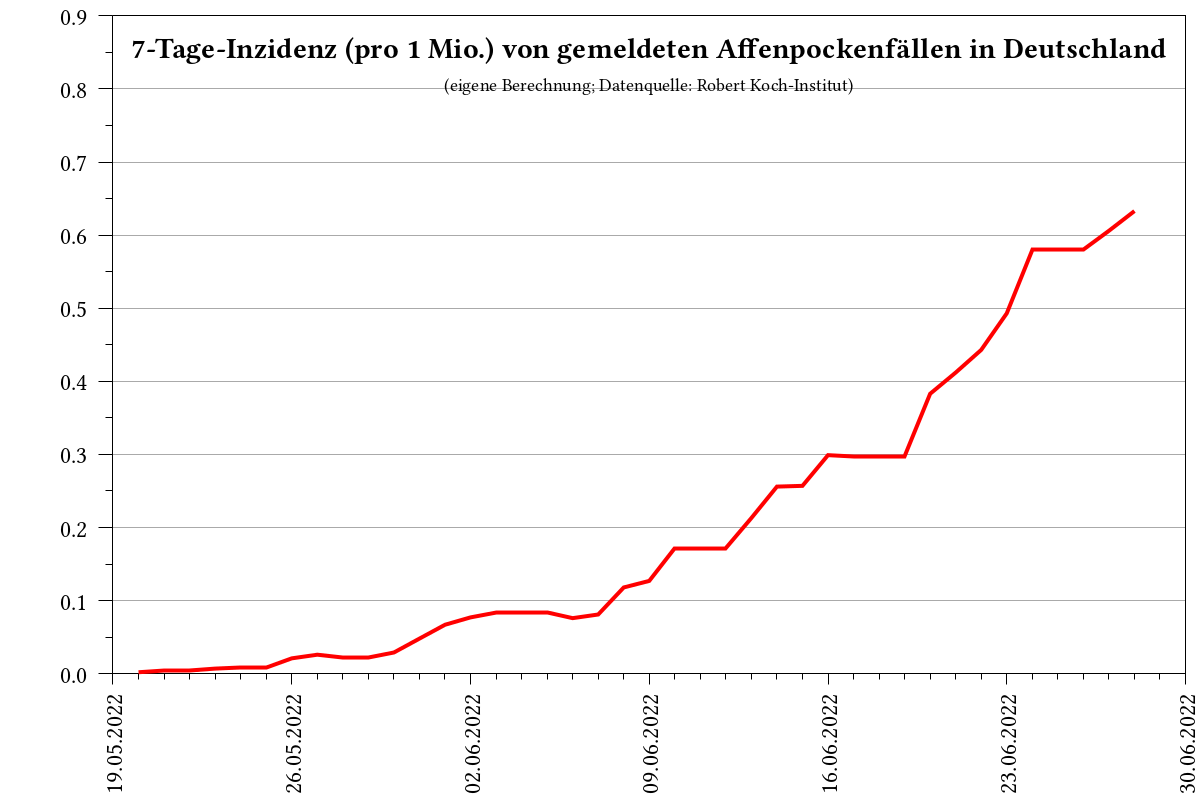
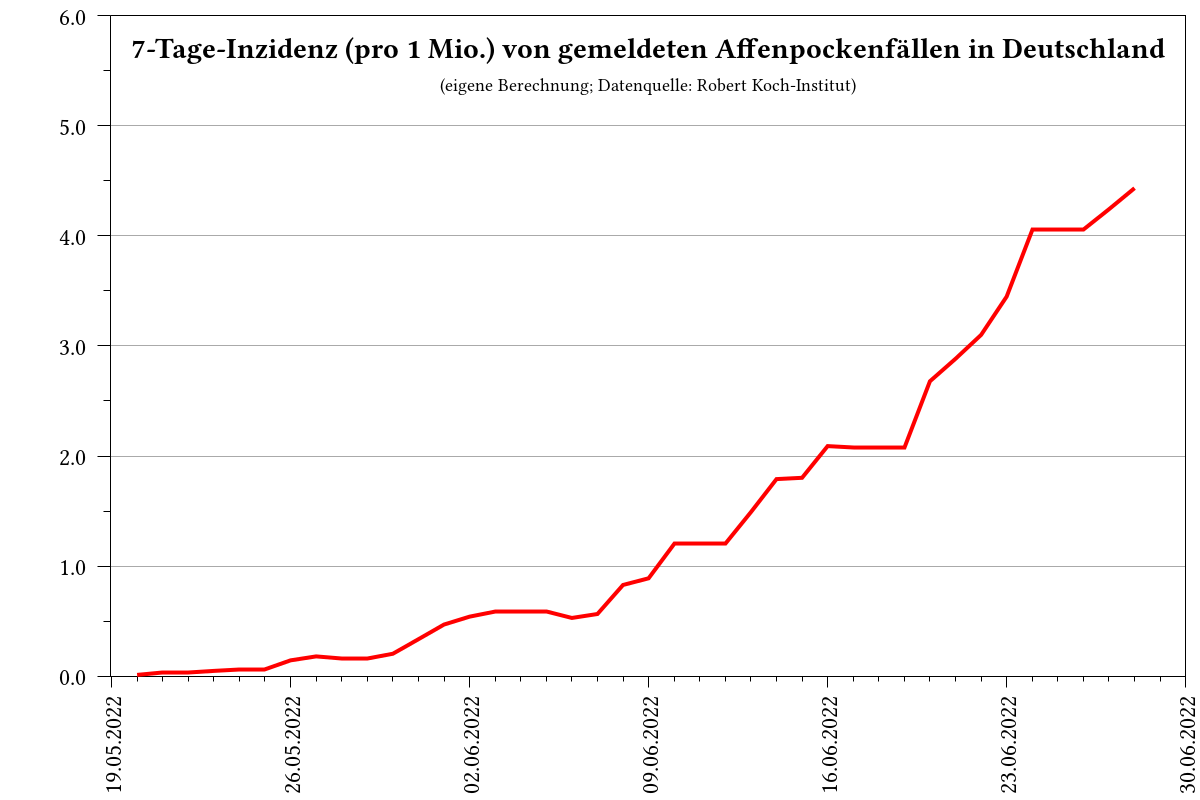
fixed 7-day incidence

diff --git a/scraper/rki_processing.py b/scraper/rki_processing.py
@@ -59,7 +59,7 @@ class RKI_Monkeypox_Processing:
         
         # adds 7-day incidence
         self.df['inc_cases_7d_mean'] = self.df['inc_cases'].rolling(window=7).mean().fillna(0.0)
-        self.df['7d_incidence_100k'] = self.df['inc_cases_7d_mean'] / self.pop * 100_000 
+        self.df['7d_incidence_100k'] = self.df['inc_cases'].rolling(window=7).sum().fillna(0.0) / self.pop * 100_000 
        
 if __name__ == "__main__":
     c = RKI_Monkeypox_Processing()
